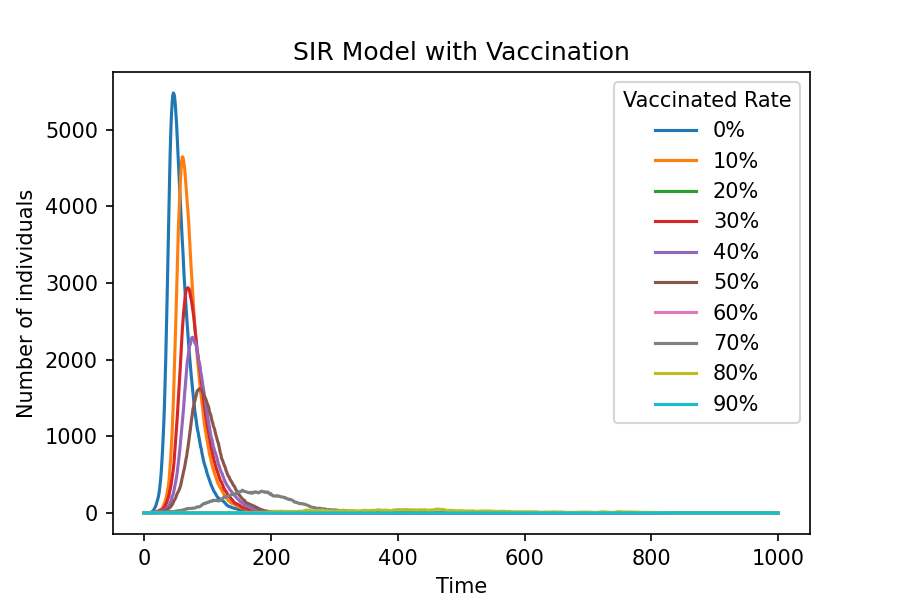
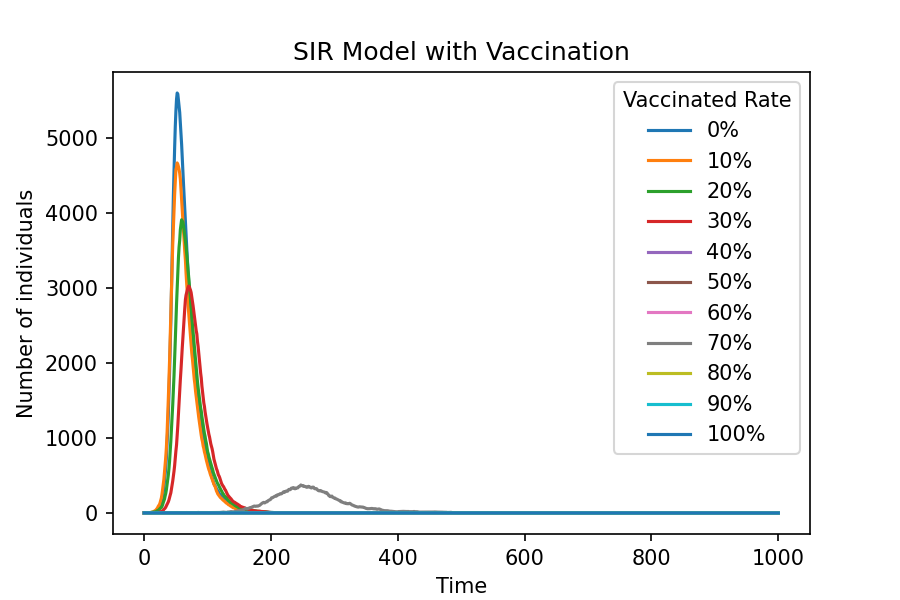
6

diff --git a/Practical6/spatial_SIR.py b/Practical6/spatial_SIR.py
@@ -1,28 +1,20 @@
 import numpy as np
 import matplotlib.pyplot as plt
-
-# 创建一个100x100的地图，初始状态全部为0（健康）
-# np.zeros((100, 100)) 创建一个 100行 x 100列 的二维数组，所有值都是0
-population = np.zeros((100, 100), dtype=int)
-
-# 选一个随机点作为初始感染者
-# np.random.choice(range(100), 2) 从0到99中选两个数，作为x和y坐标
+population = np.zeros((100, 100), dtype=int)#   Created map with all initial status 0 (health)
+# Pick a random point as the initial infected person and its x and y coordinates
 outbreak = np.random.choice(range(100), 2)
 x = outbreak[0]
 y = outbreak[1]
-population[x][y] = 1  # 设置为感染者（1）
-
-# 设置参数
-beta = 0.3     # 被邻居感染的概率
-gamma = 0.05   # 康复的概率
-
-# 创建图像窗口，大小6x4英寸，清晰度150dpi
+population[x][y] = 1
+beta = 0.3     # Probability of being infected by someone nearby
+gamma = 0.05   # Probability of recovery
+# Create image window and set its data
 plt.figure(figsize=(6, 4), dpi=150)
 
 # 显示初始状态，使用“viridis”颜色映射：紫=健康，绿色=感染，黄=康复
 plt.imshow(population, cmap='viridis', interpolation='nearest')
 plt.title("Time = 0")   # 添加标题
-plt.savefig("spatial_t0.png")  # 保存图片为文件
+#plt.savefig("spatial_t0.png")  # 保存图片为文件
 plt.show()
 
 # 传播模拟，共进行100轮
@@ -65,5 +57,5 @@ for t in range(1, 101):
         plt.figure(figsize=(6, 4), dpi=150)
         plt.imshow(population, cmap='viridis', interpolation='nearest')
         plt.title("Time = " + str(t))
-        plt.savefig("spatial_t" + str(t) + ".png")
+        #plt.savefig("spatial_t" + str(t) + ".png")
         plt.show()

diff --git a/Practical6/SIR_vaccination.py b/Practical6/SIR_vaccination.py
@@ -9,9 +9,10 @@ for rate in vaccination_rates:
     gamma = 0.05     #康复率
     V = int(N * rate)
     S = N - V - 1      #易感染的人（除去第一个感染者）
-    S_list = [S]
+    S = N - V - 1
     if S < 0:
-        continue  
+       S = 0     # 强制设为0，表示没有易感者（100%的人都接种了）
+    S_list = [S]
     I = 1           #初始感染的人
     I_list = [I]         
     R = 0            #康复的人
@@ -33,5 +34,5 @@ plt.xlabel("Time")
 plt.ylabel("Number of individuals")
 plt.title("SIR Model with Vaccination")
 plt.legend(title="Vaccinated Rate")
-plt.savefig("sir_vaccination_basic.png")  # 可保存为文件
+#plt.savefig("sir_vaccination_basic.png")  # 可保存为文件
 plt.show()
